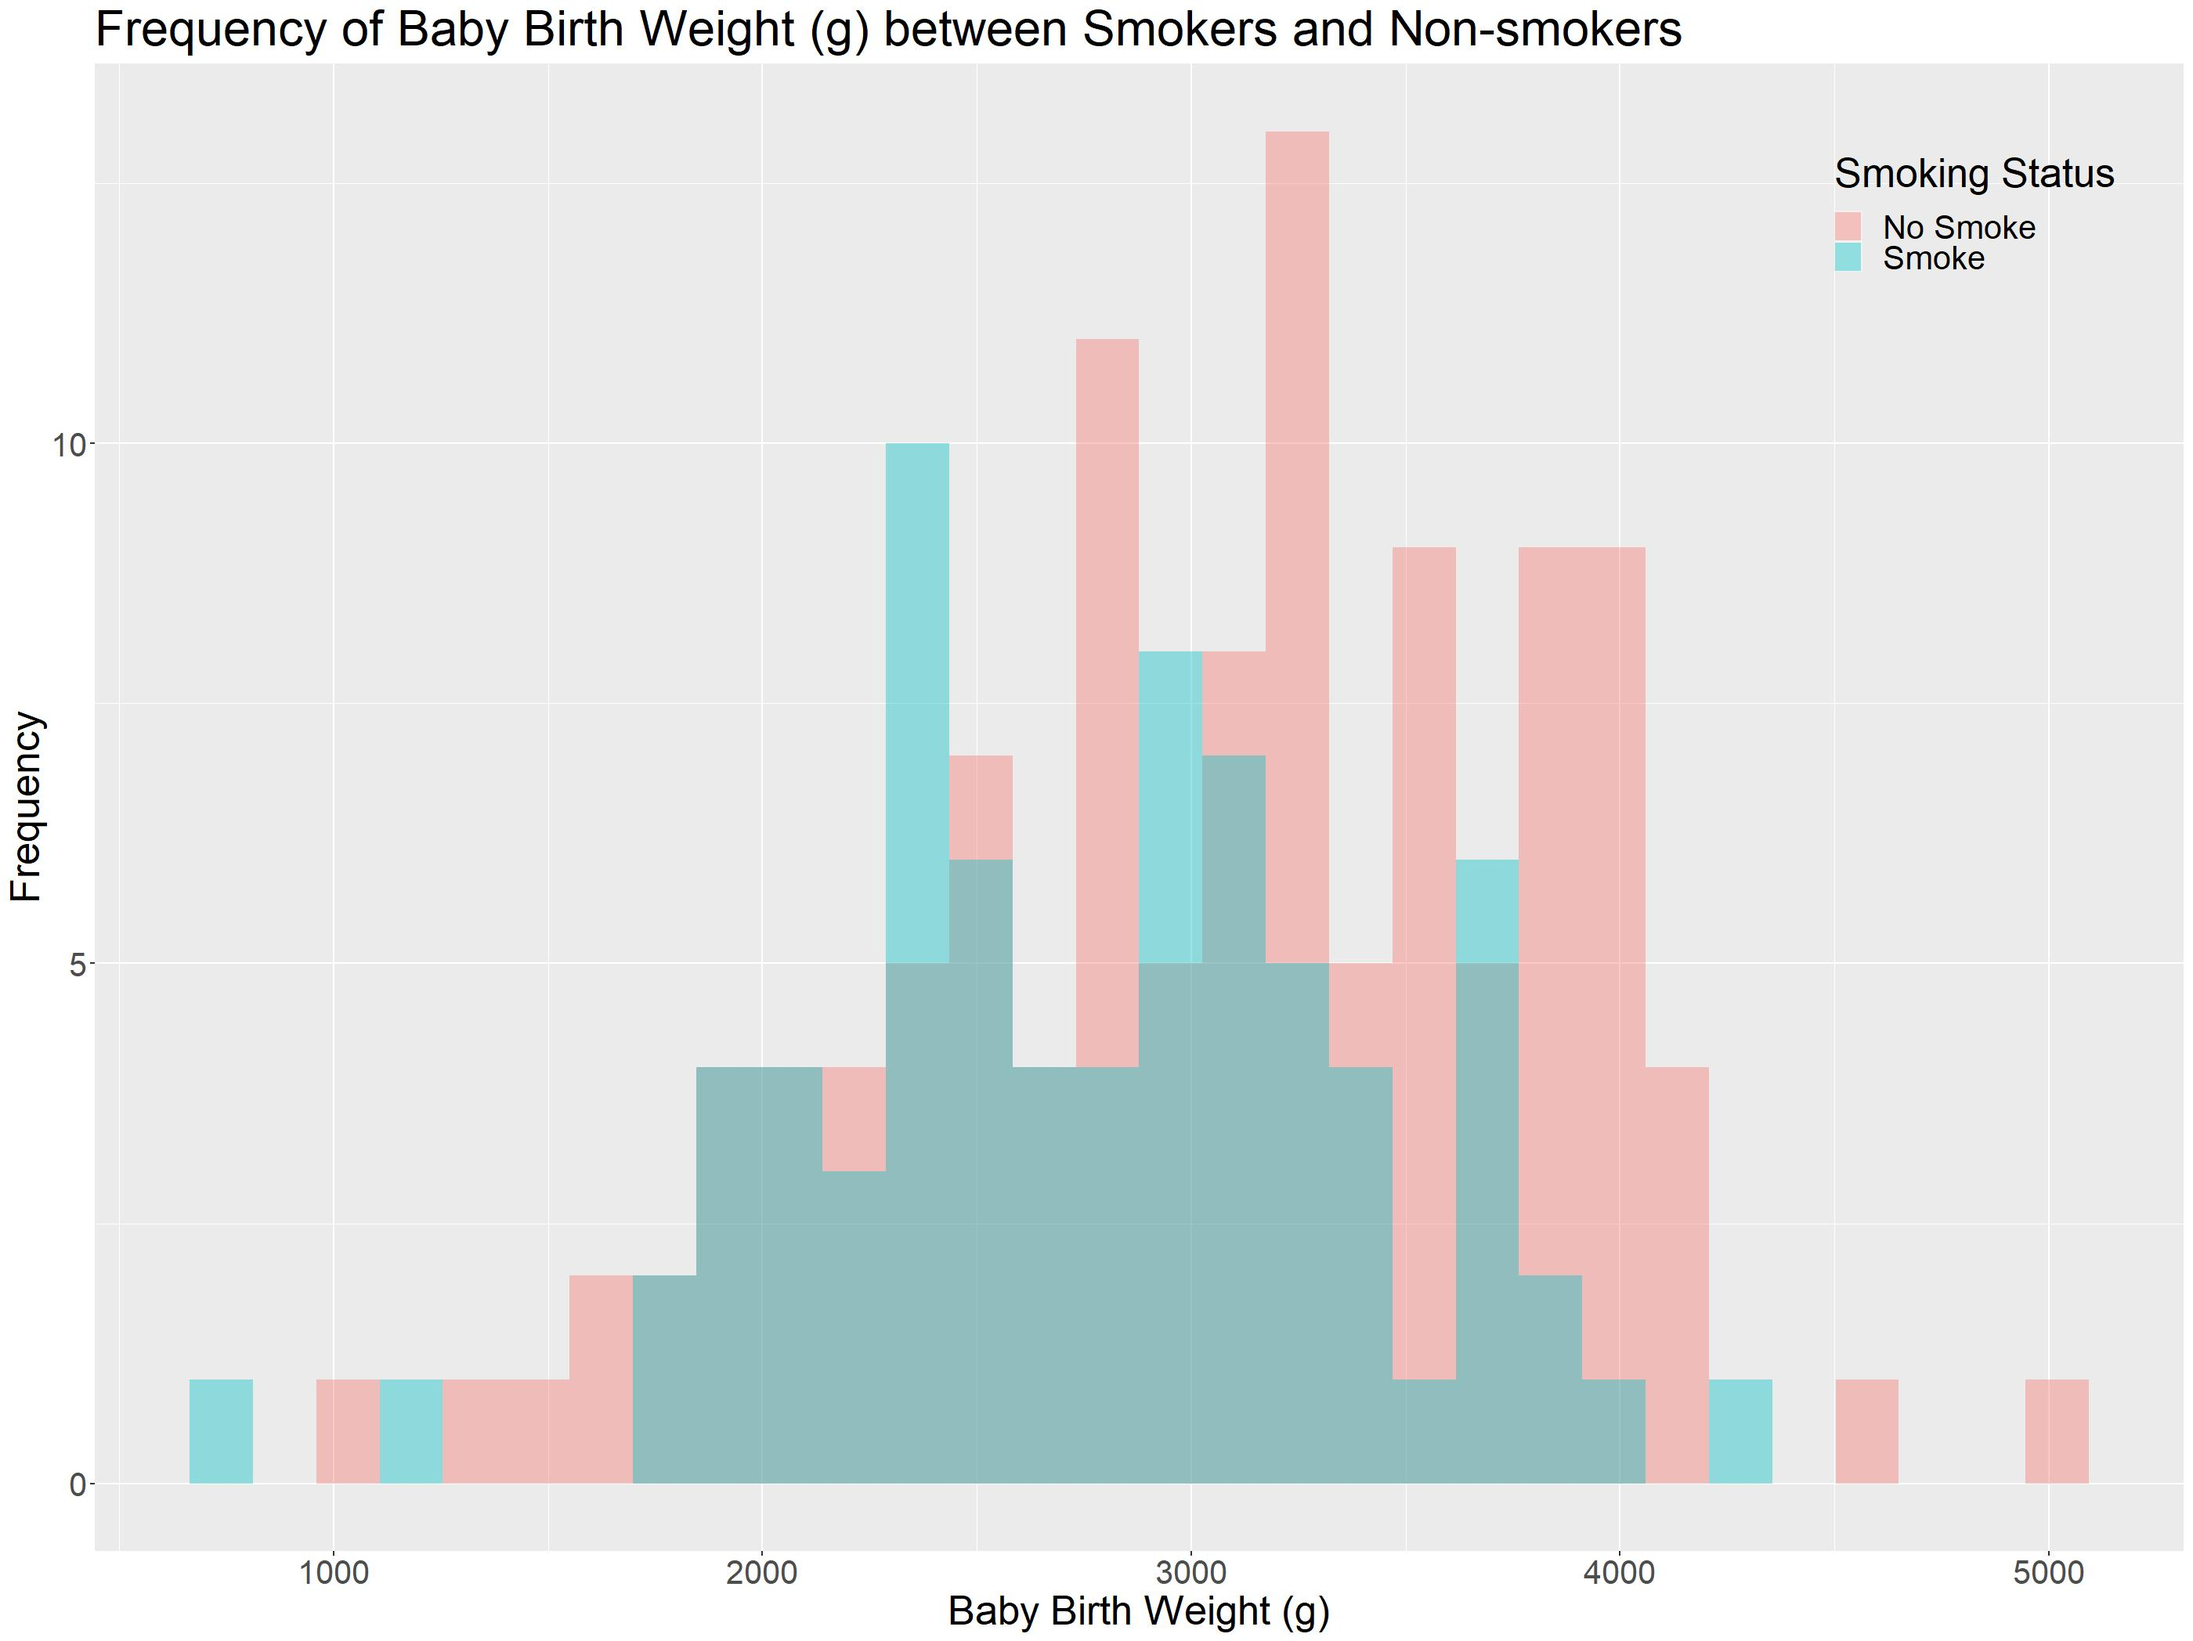
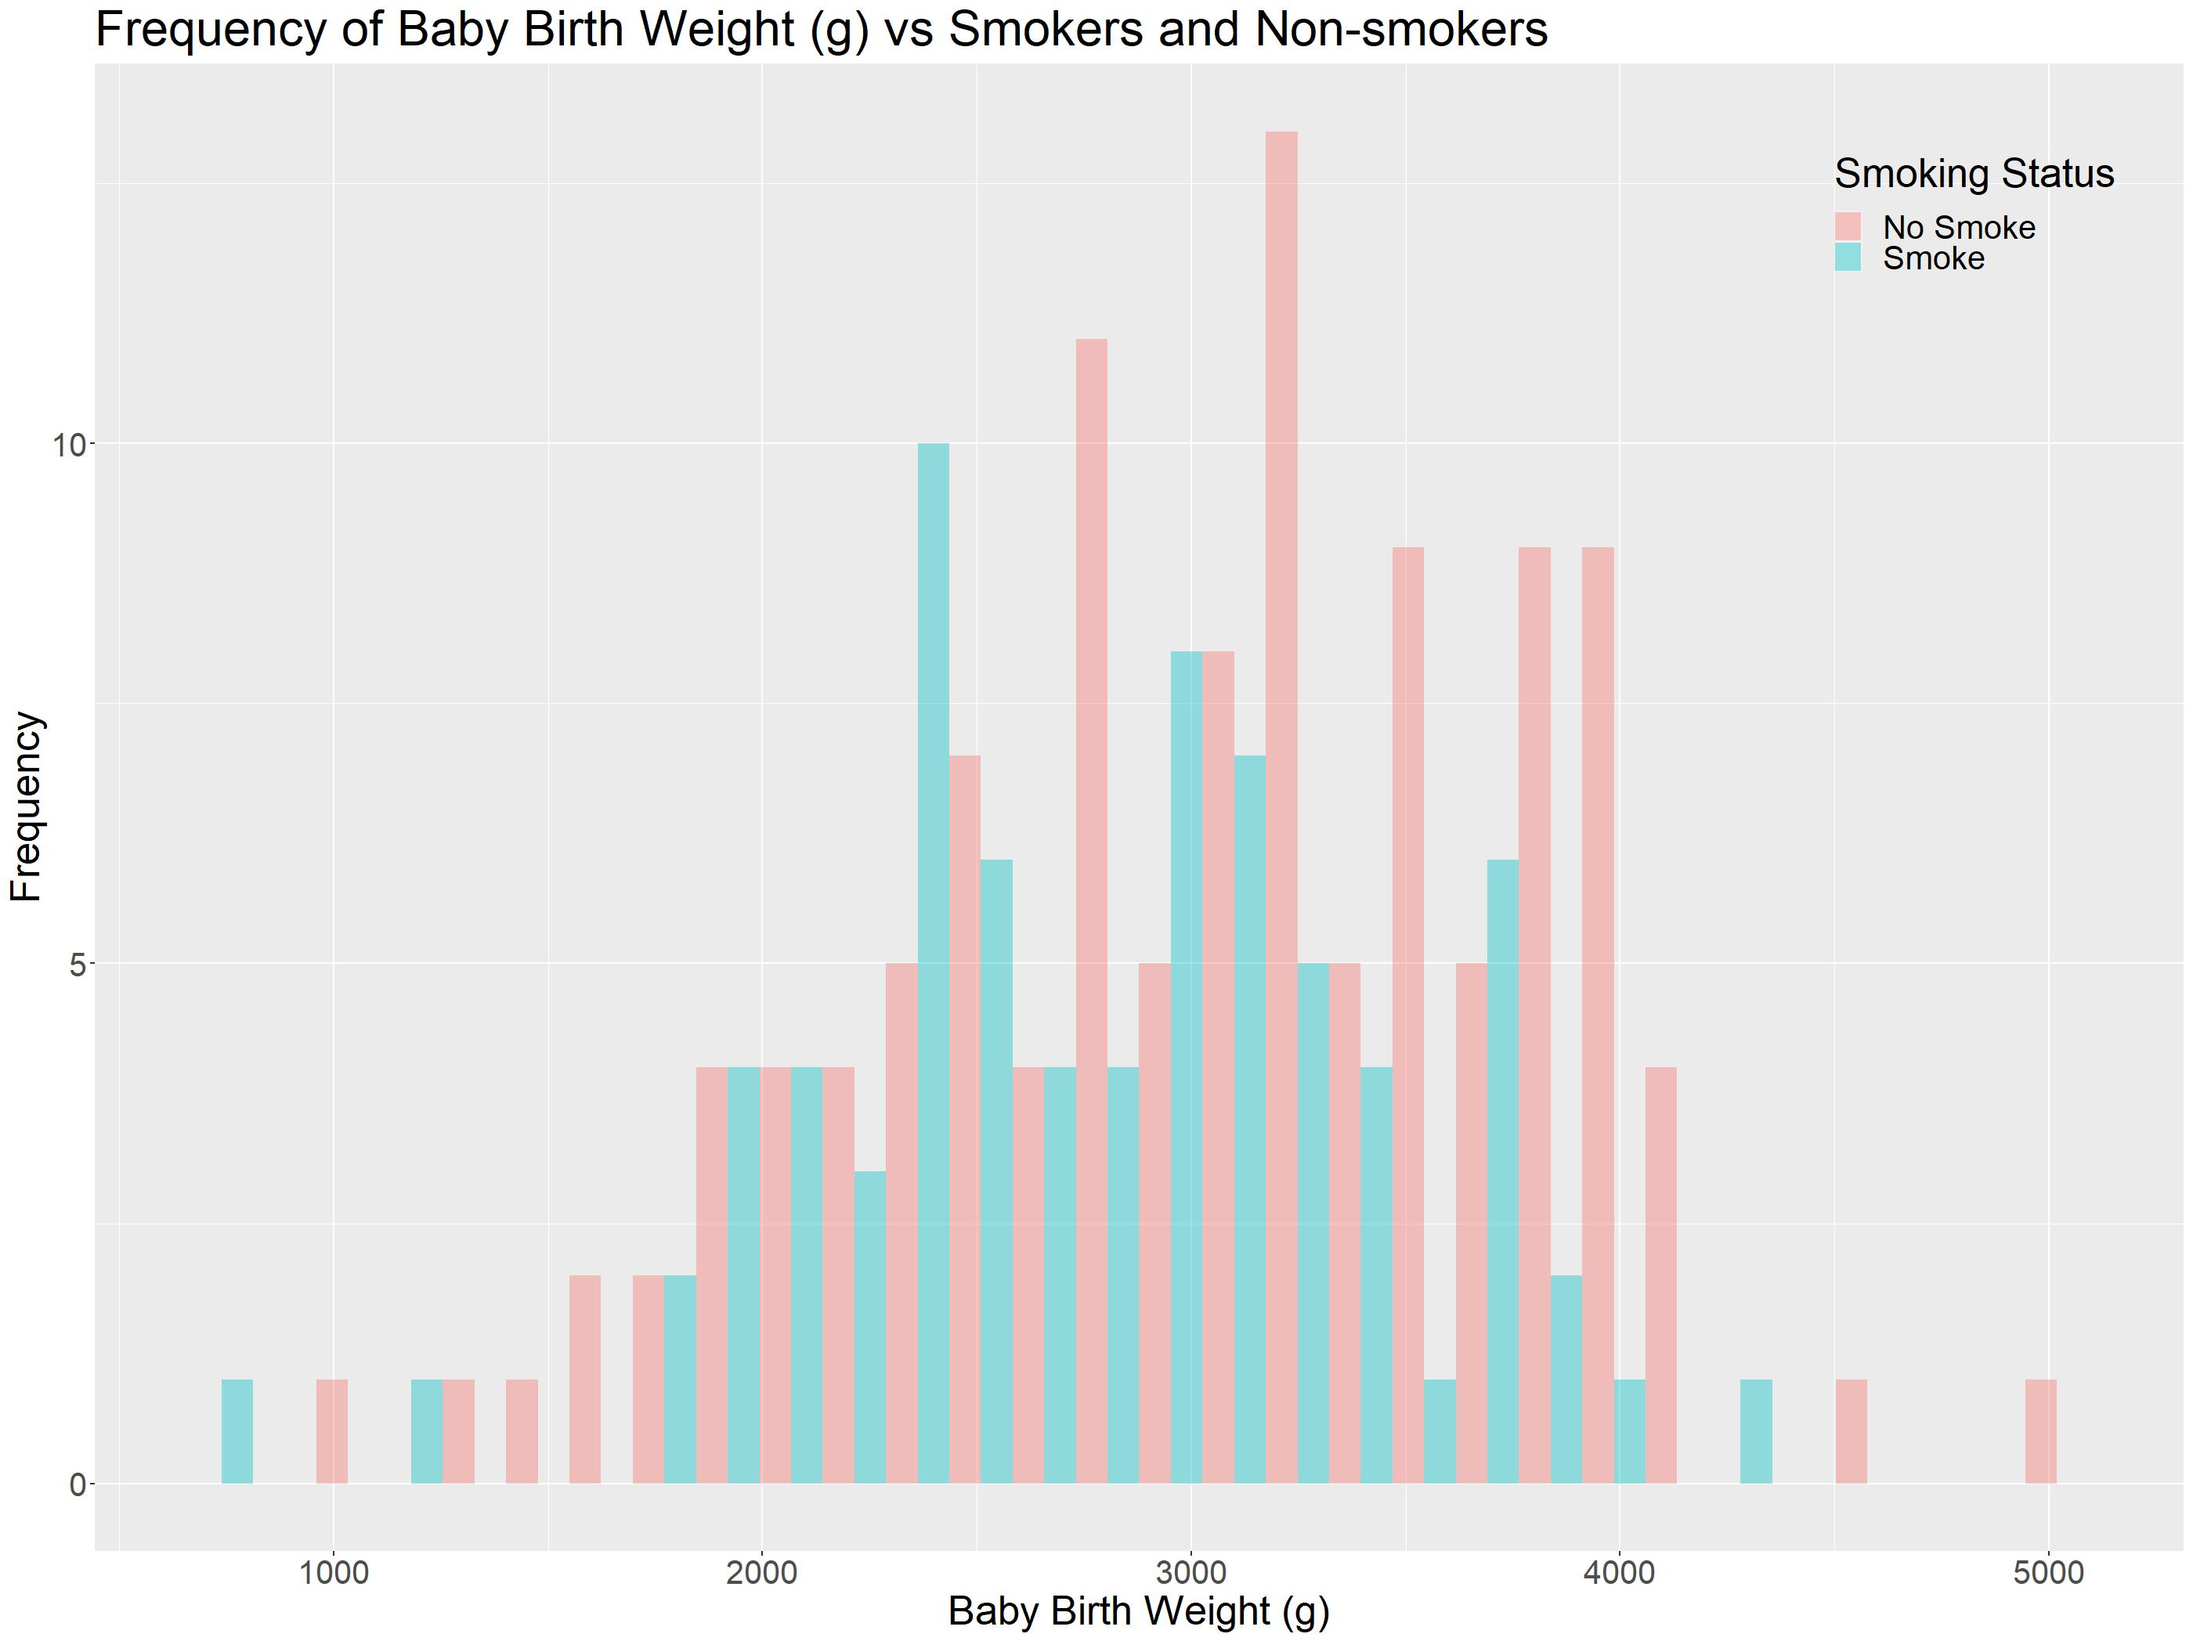
changed title of hist graphs

diff --git a/sps_workshops/Visualisation_In_R.md b/sps_workshops/Visualisation_In_R.md
@@ -485,7 +485,7 @@ birthwt_hist = ggplot(birthwt, aes(x=bwt)) +
            theme(axis.text=element_text(size=20)) + 
            theme(axis.title=element_text(size=25)) +
            xlab('Baby Birth Weight (g)') + ylab('Frequency') + 
-           labs(title = "Frequency of Baby Birth Weight (g) between Smokers and Non-smokers") +
+           labs(title = "Frequency of Baby Birth Weight (g) vs Smokers and Non-smokers") +
            theme(plot.title  = element_text(size=30)) +
            #This is just for changing the text size for grouping
            theme(strip.text = element_text(size = 20))
@@ -510,7 +510,7 @@ birthwt_histR = ggplot(birthwt, aes(x=bwt)) +
            theme(axis.text=element_text(size=20)) + 
            theme(axis.title=element_text(size=25)) +
            xlab('Baby Birth Weight (g)') + ylab('Frequency') + 
-           labs(title = "Frequency of Baby Birth Weight (g) between Smokers and Non-smokers") +
+           labs(title = "Frequency of Baby Birth Weight (g) vs Smokers and Non-smokers") +
            theme(plot.title  = element_text(size=30)) +
            theme(strip.text = element_text(size = 20))
 ```
@@ -522,12 +522,12 @@ This is much clearer now!
 
 What if the comparison of using a grouped histogram is not that obvious? It might be better to put them all in the same axis and use colour to separate the two. In this case, we would need to make some adjustments.
 
-The important thing to take not of here is while calling the `geom_histogram()` function. We have the `position = 'identity'` here so that histogram overlaps with each other, rather than having a stacked histogram. 
+The important thing to take not of here is while calling the `geom_histogram()` function. We have the `position = 'dodge'` here so that histogram are not overlapping with each other.
 
-Leaving `position` argument out would automatically make the histograms stack ontop of each other. There are other arguments for histograms such as `dodge`.
+Leaving `position` argument out would automatically make the histograms stack ontop of each other. There are other arguments for histograms such as `identity`.
 ```R
 birthwt_histc = ggplot(birthwt, aes(x=bwt, fill=smokeR)) +
-geom_histogram(position="identity", alpha=0.4)+ 
+geom_histogram(position="dodge", alpha=0.4)+ 
         
 
            #Making the graph look nice.
@@ -535,7 +535,7 @@ geom_histogram(position="identity", alpha=0.4)+
            theme(axis.text=element_text(size=20)) + 
            theme(axis.title=element_text(size=25)) +
            xlab('Baby Birth Weight (g)') + ylab('Frequency') + 
-           labs(title = "Frequency of Baby Birth Weight (g) between Smokers and Non-smokers") +
+           labs(title = "Frequency of Baby Birth Weight (g) vs Smokers and Non-smokers") +
            theme(plot.title  = element_text(size=30)) +
 
            #Changing the aesthetics of the legend
